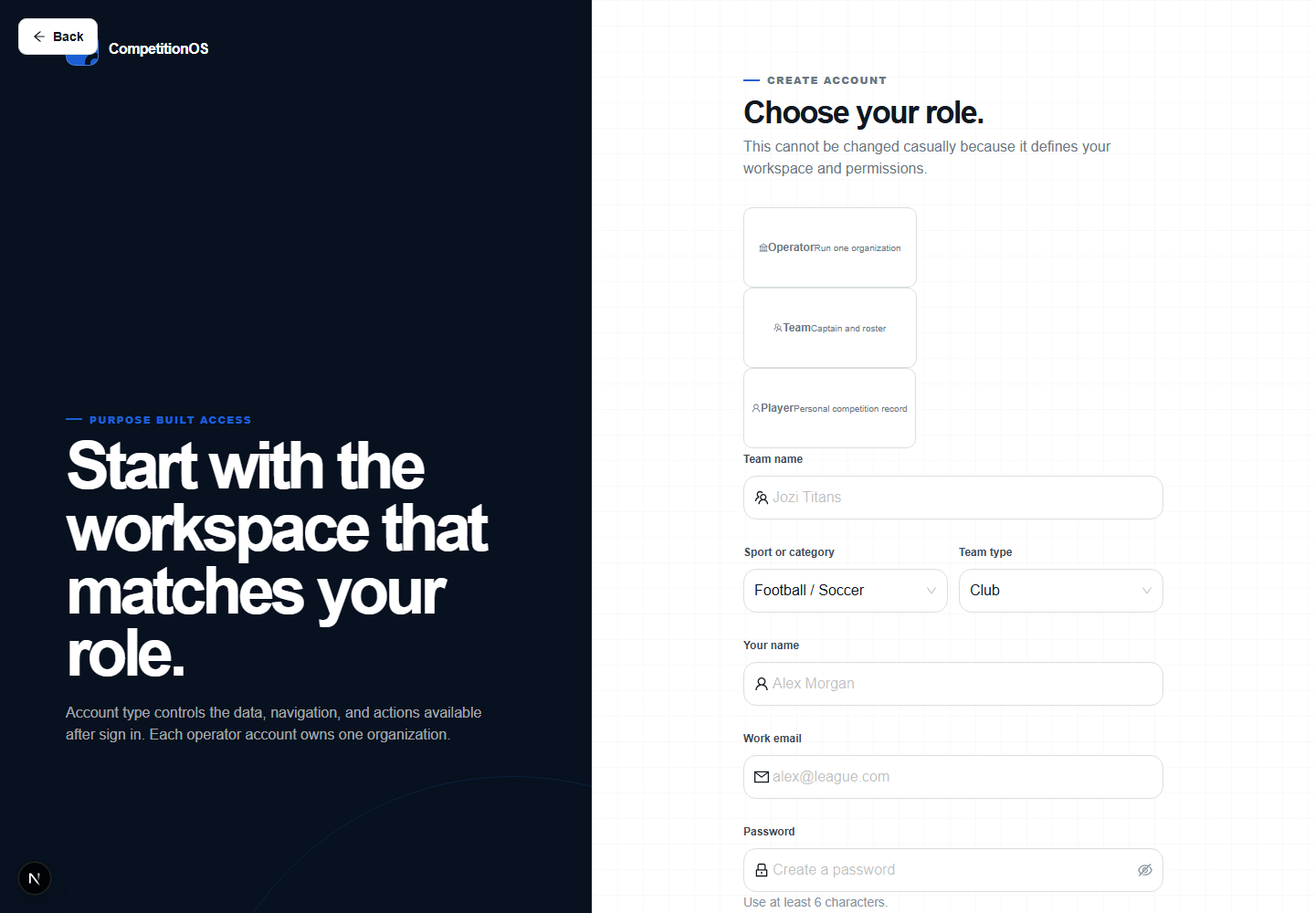
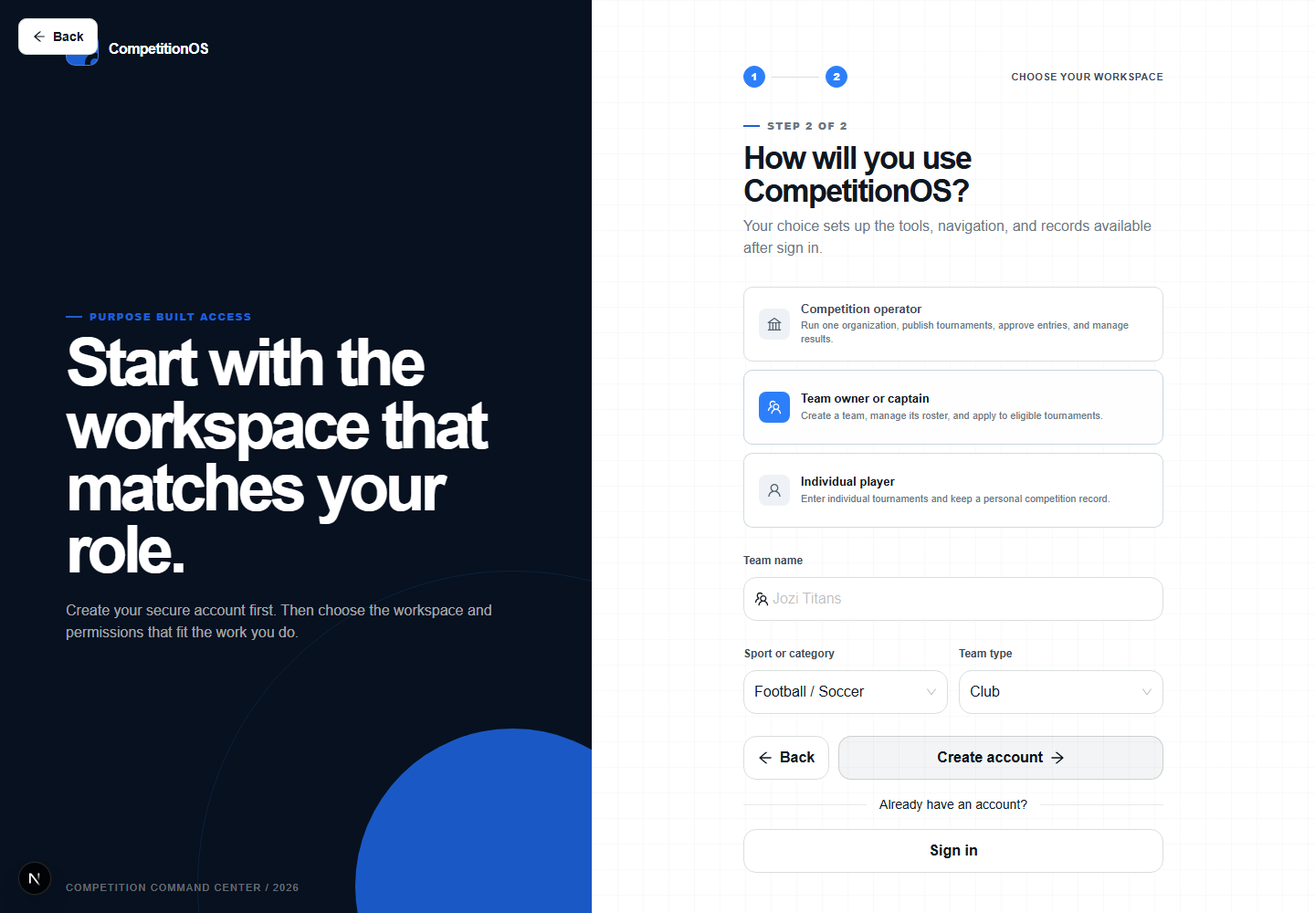
fix: rebuild role onboarding flow

diff --git a/src/app/register/page.tsx b/src/app/register/page.tsx
@@ -1,56 +1,109 @@
 "use client";
 
-import { useState } from "react";
+import { useEffect, useState } from "react";
 import { useRouter } from "next/navigation";
-import { Button, Divider, Form, Input, Radio, Select, message } from "antd";
-import { ArrowRightOutlined, BankOutlined, LockOutlined, MailOutlined, TeamOutlined, UserOutlined } from "@ant-design/icons";
+import { Button, Divider, Form, Input, Select, message } from "antd";
+import { ArrowLeftOutlined, ArrowRightOutlined, BankOutlined, LockOutlined, MailOutlined, TeamOutlined, UserOutlined } from "@ant-design/icons";
 import { AuthShell } from "@/components/common/auth-shell";
 import { SPORT_CATEGORIES, TEAM_TYPES } from "@/domain/categories";
 
 type AccountType = "operator" | "team" | "player";
+type RegistrationValues = { email: string; password: string; displayName: string; organizationName?: string; teamName?: string; category?: string; teamType?: string };
+
+const REDIRECT_KEY = "competitionos_auth_redirect";
+
+function safeInviteRedirect(value: string | null) {
+  return value?.startsWith("/invite/") && !value.startsWith("//") ? value : null;
+}
 
 export default function RegisterPage() {
   const router = useRouter();
+  const [form] = Form.useForm<RegistrationValues>();
   const [loading, setLoading] = useState(false);
-  const [accountType, setAccountType] = useState<AccountType>("operator");
+  const [step, setStep] = useState<1 | 2>(1);
+  const [accountType, setAccountType] = useState<AccountType | null>(null);
+  const [inviteRedirect, setInviteRedirect] = useState<string | null>(null);
 
-  const onFinish = async (values: { email: string; password: string; displayName: string; organizationName?: string; teamName?: string; category?: string; teamType?: string }) => {
+  useEffect(() => {
+    const queryRedirect = safeInviteRedirect(new URLSearchParams(window.location.search).get("redirect"));
+    const storedRedirect = safeInviteRedirect(sessionStorage.getItem(REDIRECT_KEY));
+    const redirect = queryRedirect ?? storedRedirect;
+    if (redirect) {
+      sessionStorage.setItem(REDIRECT_KEY, redirect);
+      setInviteRedirect(redirect);
+    }
+  }, []);
+
+  const createAccount = async (values: RegistrationValues, selectedType: AccountType) => {
     setLoading(true);
     try {
-      const res = await fetch("/api/auth/register", { method: "POST", headers: { "Content-Type": "application/json" }, body: JSON.stringify({ ...values, accountType }) });
+      const res = await fetch("/api/auth/register", { method: "POST", headers: { "Content-Type": "application/json" }, body: JSON.stringify({ ...values, accountType: selectedType }) });
       const json = await res.json();
       if (!res.ok) throw new Error(json.error ?? "Registration failed");
-      message.success(accountType === "operator" ? "Organization and operator account created." : accountType === "team" ? "Team workspace created." : "Player account created.");
-      router.push("/login");
+      message.success(inviteRedirect ? "Account created. Sign in to accept your invitation." : selectedType === "operator" ? "Organization and operator account created." : selectedType === "team" ? "Team workspace created." : "Player account created.");
+      router.push(inviteRedirect ? `/login?redirect=${encodeURIComponent(inviteRedirect)}` : "/login");
     } catch (err: unknown) {
       message.error(err instanceof Error ? err.message : "Registration failed");
     } finally { setLoading(false); }
   };
 
+  const onFinish = async (values: RegistrationValues) => {
+    if (step === 1 && !inviteRedirect) {
+      setStep(2);
+      return;
+    }
+    const selectedType = inviteRedirect ? "player" : accountType;
+    if (!selectedType) {
+      message.error("Choose the workspace that matches your role");
+      return;
+    }
+    await createAccount(values, selectedType);
+  };
+
   return (
-    <AuthShell eyebrow="Purpose built access" title="Start with the workspace that matches your role." description="Account type controls the data, navigation, and actions available after sign in. Each operator account owns one organization.">
-      <div className="auth-card__heading"><span className="eyebrow">Create account</span><h1>Choose your role.</h1><p>This cannot be changed casually because it defines your workspace and permissions.</p></div>
-      <Form layout="vertical" onFinish={onFinish} requiredMark={false}>
-        <Radio.Group className="account-type-picker" value={accountType} onChange={(event) => setAccountType(event.target.value)}>
-          <Radio.Button value="operator"><BankOutlined /><strong>Operator</strong><span>Run one organization</span></Radio.Button>
-          <Radio.Button value="team"><TeamOutlined /><strong>Team</strong><span>Captain and roster</span></Radio.Button>
-          <Radio.Button value="player"><UserOutlined /><strong>Player</strong><span>Personal competition record</span></Radio.Button>
-        </Radio.Group>
-        {accountType === "operator" && <Form.Item label="Company or organization name" name="organizationName" rules={[{ required: true, message: "Enter your organization name" }]}><Input prefix={<BankOutlined />} placeholder="Premier League Operations" size="large" autoComplete="organization" /></Form.Item>}
-        {accountType === "team" && <>
-          <Form.Item label="Team name" name="teamName" rules={[{ required: true, message: "Enter your team name" }]}><Input prefix={<TeamOutlined />} placeholder="Jozi Titans" size="large" /></Form.Item>
-          <div className="auth-field-pair">
-            <Form.Item label="Sport or category" name="category" initialValue="football" rules={[{ required: true }]}><Select size="large" options={[...SPORT_CATEGORIES]} /></Form.Item>
-            <Form.Item label="Team type" name="teamType" initialValue="club" rules={[{ required: true }]}><Select size="large" options={[...TEAM_TYPES]} /></Form.Item>
+    <AuthShell eyebrow="Purpose built access" title="Start with the workspace that matches your role." description="Create your secure account first. Then choose the workspace and permissions that fit the work you do.">
+      <div className="onboarding-progress" aria-label={`Account setup, step ${step} of 2`}>
+        <span className="is-active">1</span><i /><span className={step === 2 ? "is-active" : ""}>2</span>
+        <strong>{step === 1 ? "Account details" : "Choose your workspace"}</strong>
+      </div>
+      <div className="auth-card__heading">
+        <span className="eyebrow">{inviteRedirect ? "Invitation access" : `Step ${step} of 2`}</span>
+        <h1>{step === 1 ? "Create your account." : "How will you use CompetitionOS?"}</h1>
+        <p>{step === 1 ? (inviteRedirect ? "Your invitation will connect this account to the right competition or team." : "Use your real details so records and invitations reach the right person.") : "Your choice sets up the tools, navigation, and records available after sign in."}</p>
+      </div>
+      <Form form={form} layout="vertical" onFinish={onFinish} requiredMark={false} preserve>
+        {step === 1 && <>
+          <Form.Item label="Your name" name="displayName" rules={[{ required: true, message: "Enter your name" }]}><Input prefix={<UserOutlined />} placeholder="Alex Morgan" size="large" autoComplete="name" /></Form.Item>
+          <Form.Item label="Email address" name="email" rules={[{ required: true, type: "email", message: "Enter a valid email address" }]}><Input prefix={<MailOutlined />} placeholder="alex@league.com" size="large" autoComplete="email" /></Form.Item>
+          <Form.Item label="Password" name="password" rules={[{ required: true, min: 6, message: "Use at least 6 characters" }]} extra="Use at least 6 characters."><Input.Password prefix={<LockOutlined />} placeholder="Create a password" size="large" autoComplete="new-password" /></Form.Item>
+          <Button type="primary" htmlType="submit" block loading={loading} size="large">{inviteRedirect ? "Create account and continue" : "Continue"} <ArrowRightOutlined /></Button>
+        </>}
+
+        {step === 2 && <>
+          <div className="account-type-picker" role="radiogroup" aria-label="Workspace type">
+            <button type="button" role="radio" aria-checked={accountType === "operator"} className={accountType === "operator" ? "is-selected" : ""} onClick={() => setAccountType("operator")}><BankOutlined /><span className="account-type-copy"><strong>Competition operator</strong><small>Run one organization, publish tournaments, approve entries, and manage results.</small></span></button>
+            <button type="button" role="radio" aria-checked={accountType === "team"} className={accountType === "team" ? "is-selected" : ""} onClick={() => setAccountType("team")}><TeamOutlined /><span className="account-type-copy"><strong>Team owner or captain</strong><small>Create a team, manage its roster, and apply to eligible tournaments.</small></span></button>
+            <button type="button" role="radio" aria-checked={accountType === "player"} className={accountType === "player" ? "is-selected" : ""} onClick={() => setAccountType("player")}><UserOutlined /><span className="account-type-copy"><strong>Individual player</strong><small>Enter individual tournaments and keep a personal competition record.</small></span></button>
+          </div>
+
+          {accountType === "operator" && <Form.Item label="Company or organization name" name="organizationName" rules={[{ required: true, message: "Enter your organization name" }]}><Input prefix={<BankOutlined />} placeholder="Premier League Operations" size="large" autoComplete="organization" /></Form.Item>}
+          {accountType === "team" && <>
+            <Form.Item label="Team name" name="teamName" rules={[{ required: true, message: "Enter your team name" }]}><Input prefix={<TeamOutlined />} placeholder="Jozi Titans" size="large" /></Form.Item>
+            <div className="auth-field-pair">
+              <Form.Item label="Sport or category" name="category" initialValue="football" rules={[{ required: true }]}><Select size="large" options={[...SPORT_CATEGORIES]} /></Form.Item>
+              <Form.Item label="Team type" name="teamType" initialValue="club" rules={[{ required: true }]}><Select size="large" options={[...TEAM_TYPES]} /></Form.Item>
+            </div>
+          </>}
+          {accountType === "player" && <div className="role-confirmation"><UserOutlined /><span><strong>Your player profile</strong><small>Your tournament entries, team memberships, fixtures, and results stay connected to this account.</small></span></div>}
+
+          <div className="onboarding-actions">
+            <Button size="large" icon={<ArrowLeftOutlined />} onClick={() => setStep(1)}>Back</Button>
+            <Button type="primary" htmlType="submit" loading={loading} size="large" disabled={!accountType}>Create account <ArrowRightOutlined /></Button>
           </div>
         </>}
-        <Form.Item label="Your name" name="displayName" rules={[{ required: true, message: "Enter your name" }]}><Input prefix={<UserOutlined />} placeholder="Alex Morgan" size="large" autoComplete="name" /></Form.Item>
-        <Form.Item label="Work email" name="email" rules={[{ required: true, type: "email", message: "Enter a valid email address" }]}><Input prefix={<MailOutlined />} placeholder="alex@league.com" size="large" autoComplete="email" /></Form.Item>
-        <Form.Item label="Password" name="password" rules={[{ required: true, min: 6, message: "Use at least 6 characters" }]} extra="Use at least 6 characters."><Input.Password prefix={<LockOutlined />} placeholder="Create a password" size="large" autoComplete="new-password" /></Form.Item>
-        <Button type="primary" htmlType="submit" block loading={loading} size="large">Create {accountType} account <ArrowRightOutlined /></Button>
       </Form>
       <Divider plain>Already have an account?</Divider>
-      <Button block size="large" onClick={() => router.push("/login")}>Sign in</Button>
+      <Button block size="large" onClick={() => router.push(inviteRedirect ? `/login?redirect=${encodeURIComponent(inviteRedirect)}` : "/login")}>Sign in</Button>
     </AuthShell>
   );
 }

diff --git a/src/app/how-to/page.tsx b/src/app/how-to/page.tsx
@@ -39,7 +39,7 @@ export default function HowToPage() {
 
         <section id="accounts"><div className={styles.label}>01 / Account model</div><h2>Choose the correct account at sign up.</h2><p>Every login has one permanent operating context. This keeps participant data separate from organizer controls and makes every action auditable.</p><div className={styles.roles}><div><strong>Operator</strong><p>Creates one organization during onboarding and manages its competitions, approvals, officials, scoring, and publication.</p></div><div><strong>Team</strong><p>Creates one named team during onboarding. The captain manages its identity, roster, invitations, and tournament applications.</p></div><div><strong>Player</strong><p>Registers as an individual, enters eligible individual competitions, and follows personal fixtures and performance.</p></div></div></section>
 
-        <section id="operator"><div className={styles.label}>02 / Operator</div><h2>Set up your organization.</h2><Steps items={[{ title: "Select Operator at sign up", body: "Enter the company, federation, league, school, or tournament organization name. CompetitionOS creates the organization and makes you its owner." }, { title: "Open the organization workspace", body: "After sign in you land at /o/your-organization. This is the private command center for the organization created with that account." }, { title: "Invite operational staff", body: "Use People to invite admins, moderators, referees, and members. Give each person the smallest role needed for their work." }, { title: "Complete organization settings", body: "Add the identity and operational details that should appear across public competition coverage." }]} /></section>
+        <section id="operator"><div className={styles.label}>02 / Operator</div><h2>Set up your organization.</h2><Steps items={[{ title: "Create your account, then choose Operator", body: "Enter your personal account details first. On step two, choose Competition operator and enter the company, federation, league, school, or tournament organization name. CompetitionOS creates that organization and makes you its owner." }, { title: "Open the organization workspace", body: "After sign in you land at /o/your-organization. This is the private command center for the organization created with that account." }, { title: "Invite operational staff", body: "Use People to invite admins, moderators, referees, and members. Give each person the smallest role needed for their work." }, { title: "Complete organization settings", body: "Add the identity and operational details that should appear across public competition coverage." }]} /></section>
 
         <section id="competition"><div className={styles.label}>03 / Competition setup</div><h2>Create a competition that entrants understand.</h2><Steps items={[{ title: "Open Competitions and choose New competition", body: "Name the season, cup, circuit, qualifier, or tournament clearly." }, { title: "Write the required description", body: "Explain who the competition is for, the objective, dates, region, and any qualification context. The description is required before creation." }, { title: "Choose the category", body: "Select football, esports, basketball, or the relevant discipline. Team alerts and eligibility use this category." }, { title: "Choose one entry type", body: "A competition accepts either team entries or individual player entries. This decides who can apply and prevents mixed registration data." }, { title: "Set eligibility", body: "Add the eligible region and, for team events, minimum and maximum roster size. These checks run before an application is accepted." }, { title: "Save as draft", body: "Build events, rules, and dates privately. Publish only after the launch checklist is complete." }]} /></section>
 
@@ -47,9 +47,9 @@ export default function HowToPage() {
 
         <section id="registrations"><div className={styles.label}>05 / Registration control</div><h2>Review every entrant before they enter an event.</h2><Steps items={[{ title: "Publish the competition", body: "Eligible player and team accounts see it in their tournament directory, based on entry type and category." }, { title: "Watch the pending queue", body: "Open Registrations in the operator workspace. Each application shows the entrant, category, roster size, note, and compatible events." }, { title: "Check eligibility", body: "Verify the applicant identity, roster size, regional rule, and any external qualification requirements." }, { title: "Approve or reject", body: "Approval creates the entrant in compatible events. Rejection keeps the decision and review note in the registration record." }, { title: "Generate fixtures after approval", body: "Wait until the approved field is final, then seed and initialize the event structure." }]} /></section>
 
-        <section id="team"><div className={styles.label}>06 / Team captain</div><h2>Build and maintain the official roster.</h2><Steps items={[{ title: "Select Team at sign up", body: "Enter the official team name, category, and team type. The team is created with your account as captain." }, { title: "Update team identity", body: "Use Team and roster to maintain the name, description, sport category, and organization type." }, { title: "Invite players", body: "Send an email invite or copy a share link into WhatsApp or another team channel. A signed in player accepts the link to join." }, { title: "Check roster eligibility", body: "Before applying, make sure accepted players satisfy the tournament minimum and maximum roster rules." }, { title: "Apply to tournaments", body: "Open Tournaments, select an eligible published competition, add an application note, and submit for operator approval." }]} /></section>
+        <section id="team"><div className={styles.label}>06 / Team captain</div><h2>Build and maintain the official roster.</h2><Steps items={[{ title: "Create your account, then choose Team", body: "On step two, choose Team owner or captain and enter the official team name, category, and team type. The team is created with your account as captain." }, { title: "Update team identity", body: "Use Team and roster to maintain the name, description, sport category, and organization type." }, { title: "Invite players", body: "Send an email invite or copy a share link into WhatsApp or another team channel. A signed in player accepts the link to join." }, { title: "Check roster eligibility", body: "Before applying, make sure accepted players satisfy the tournament minimum and maximum roster rules." }, { title: "Apply to tournaments", body: "Open Tournaments, select an eligible published competition, add an application note, and submit for operator approval." }]} /></section>
 
-        <section id="player"><div className={styles.label}>07 / Player</div><h2>Register and follow your own record.</h2><Steps items={[{ title: "Select Player at sign up", body: "Create a personal account with your real competition identity." }, { title: "Join a team when invited", body: "Open the captain's email or share link, sign in with the intended account, and accept the roster invitation." }, { title: "Enter individual tournaments", body: "The tournament directory shows published individual competitions. Submit the application and wait for operator approval." }, { title: "Follow events and performance", body: "My events contains active competition entries. Performance shows results, win rate, scoring totals, and recent matches linked to the account." }]} /></section>
+        <section id="player"><div className={styles.label}>07 / Player</div><h2>Register and follow your own record.</h2><Steps items={[{ title: "Create your player profile", body: "Create an account with your real competition identity, then choose Individual player. If you arrived through an invitation, CompetitionOS keeps that destination and skips the role question." }, { title: "Join a team when invited", body: "Open the captain's email or share link, sign in with the intended account, and accept the roster invitation." }, { title: "Enter individual tournaments", body: "The tournament directory shows published individual competitions. Submit the application and wait for operator approval." }, { title: "Follow events and performance", body: "My events contains active competition entries. Performance shows results, win rate, scoring totals, and recent matches linked to the account." }]} /></section>
 
         <section id="scoring"><div className={styles.label}>08 / Match operations</div><h2>Score a match and advance it safely.</h2><Steps items={[{ title: "Open the event", body: "From the competition, open the relevant event and locate the scheduled fixture." }, { title: "Verify both entrants", body: "Confirm the fixture, round, home or slot position, and scheduled time before starting live control." }, { title: "Record the final score", body: "Enter each side's score and complete the match. Use the configured draw, extra time, tie break, or series rules." }, { title: "Confirm the winner", body: "Review the result before advancement. Completion updates tables, statistics, and the declared progression target." }, { title: "Correct through audited controls", body: "If a result changes, use the score controls so the change remains attributable and dependent standings can be recalculated." }]} /></section>
 

diff --git a/src/app/globals.css b/src/app/globals.css
@@ -355,29 +355,50 @@ a {
 .account-type-picker {
   display: grid;
   margin-bottom: 24px;
-  grid-template-columns: repeat(3, minmax(0, 1fr));
-  gap: 8px;
+  grid-template-columns: 1fr;
+  gap: 9px;
 }
-.account-type-picker .ant-radio-button-wrapper {
-  display: flex;
-  height: 88px;
-  padding: 12px 8px;
+.account-type-picker > button {
+  display: grid;
+  width: 100%;
+  min-height: 82px;
+  padding: 14px 16px;
   align-items: center;
-  justify-content: center;
-  flex-direction: column;
-  gap: 3px;
-  border: 1px solid var(--line) !important;
-  border-radius: 10px !important;
-  text-align: center;
+  grid-template-columns: 34px minmax(0, 1fr);
+  gap: 12px;
+  border: 1px solid var(--line);
+  border-radius: 10px;
+  background: #fff;
+  color: var(--ink-700);
+  font: inherit;
+  text-align: left;
+  cursor: pointer;
+  box-shadow: none;
+  transition: border-color 160ms, background 160ms, box-shadow 160ms;
 }
-.account-type-picker .ant-radio-button-wrapper::before { display: none; }
-.account-type-picker strong { font-size: 12px; }
-.account-type-picker span { color: var(--ink-500); font-size: 10px; line-height: 1.25; }
+.account-type-picker > button:hover { border-color: rgba(45,127,249,.55); color: var(--ink-950); }
+.account-type-picker > button:focus-visible { outline: 3px solid rgba(45,127,249,.2); outline-offset: 2px; }
+.account-type-picker > button.is-selected { border-color: #2d7ff9; background: #f2f7ff; color: var(--ink-950); box-shadow: 0 0 0 3px rgba(45,127,249,.1); }
+.account-type-picker > button > .anticon { display: grid; width: 34px; height: 34px; place-items: center; border-radius: 8px; background: #eef2f6; color: #536170; font-size: 16px; }
+.account-type-picker > button.is-selected > .anticon { background: #2d7ff9; color: #fff; }
+.account-type-copy { display: flex; min-width: 0; flex-direction: column; gap: 3px; }
+.account-type-copy strong { color: inherit; font-size: 13px; line-height: 1.2; }
+.account-type-copy small { color: var(--ink-500); font-size: 11px; line-height: 1.35; white-space: normal; }
+.onboarding-progress { display: grid; margin-bottom: 26px; grid-template-columns: 24px minmax(22px, 52px) 24px 1fr; align-items: center; gap: 7px; color: var(--ink-500); }
+.onboarding-progress span { display: grid; width: 24px; height: 24px; place-items: center; border: 1px solid var(--line); border-radius: 50%; background: #fff; font-size: 11px; font-weight: 800; }
+.onboarding-progress span.is-active { border-color: #2d7ff9; background: #2d7ff9; color: #fff; }
+.onboarding-progress i { height: 1px; background: var(--line); }
+.onboarding-progress strong { justify-self: end; color: var(--ink-700); font-size: 11px; letter-spacing: .04em; text-transform: uppercase; }
+.onboarding-actions { display: grid; grid-template-columns: auto 1fr; gap: 10px; }
+.role-confirmation { display: grid; margin-bottom: 24px; padding: 15px 16px; grid-template-columns: 28px 1fr; gap: 10px; border: 1px solid var(--line); border-radius: 10px; background: #f7f9fc; color: var(--ink-700); }
+.role-confirmation > .anticon { margin-top: 2px; color: #1c5fd4; font-size: 18px; }
+.role-confirmation span { display: flex; flex-direction: column; gap: 3px; }
+.role-confirmation small { color: var(--ink-500); line-height: 1.45; }
 .auth-field-pair { display: grid; grid-template-columns: 1fr 1fr; gap: 12px; }
 @media (max-width: 560px) {
-  .account-type-picker { grid-template-columns: 1fr; }
-  .account-type-picker .ant-radio-button-wrapper { height: 64px; align-items: flex-start; padding-inline: 14px; }
+  .account-type-picker > button { min-height: 78px; padding: 12px; }
   .auth-field-pair { grid-template-columns: 1fr; gap: 0; }
+  .onboarding-progress strong { display: none; }
 }
 .auth-card__heading {
   margin-bottom: 30px;

diff --git a/src/app/login/page.tsx b/src/app/login/page.tsx
@@ -1,6 +1,6 @@
 "use client";
 
-import { useState } from "react";
+import { useEffect, useState } from "react";
 import { useRouter } from "next/navigation";
 import { Button, Divider, Form, Input, message } from "antd";
 import { ArrowRightOutlined, LockOutlined, MailOutlined } from "@ant-design/icons";
@@ -10,6 +10,11 @@ export default function LoginPage() {
   const router = useRouter();
   const [loading, setLoading] = useState(false);
 
+  useEffect(() => {
+    const requested = new URLSearchParams(window.location.search).get("redirect");
+    if (requested?.startsWith("/invite/") && !requested.startsWith("//")) sessionStorage.setItem("competitionos_auth_redirect", requested);
+  }, []);
+
   const onFinish = async (values: { email: string; password: string }) => {
     setLoading(true);
     try {
@@ -18,7 +23,9 @@ export default function LoginPage() {
       if (!res.ok) throw new Error(json.error ?? "Could not sign in");
       message.success("Welcome back");
       const requested = new URLSearchParams(window.location.search).get("redirect");
-      router.push(requested?.startsWith("/") && !requested.startsWith("//") ? requested : (json.nextPath ?? "/app"));
+      const destination = requested?.startsWith("/") && !requested.startsWith("//") ? requested : (json.nextPath ?? "/app");
+      if (destination.startsWith("/invite/")) sessionStorage.removeItem("competitionos_auth_redirect");
+      router.push(destination);
       router.refresh();
     } catch (err: unknown) {
       message.error(err instanceof Error ? err.message : "Could not sign in");
@@ -35,7 +42,10 @@ export default function LoginPage() {
         <Button type="primary" htmlType="submit" block loading={loading} size="large">Sign in <ArrowRightOutlined /></Button>
       </Form>
       <Divider plain>New to CompetitionOS?</Divider>
-      <Button block size="large" onClick={() => router.push("/register")}>Create an account</Button>
+      <Button block size="large" onClick={() => {
+        const requested = new URLSearchParams(window.location.search).get("redirect");
+        router.push(requested?.startsWith("/invite/") && !requested.startsWith("//") ? `/register?redirect=${encodeURIComponent(requested)}` : "/register");
+      }}>Create an account</Button>
     </AuthShell>
   );
 }

diff --git a/tests/e2e/product.spec.ts b/tests/e2e/product.spec.ts
@@ -49,13 +49,29 @@ test.describe("public product story", () => {
   test("separates operator, team, and player onboarding", async ({ page }) => {
     await mockApp(page, false);
     await page.goto("/register");
+    await expect(page.getByRole("heading", { name: "Create your account." })).toBeVisible();
+    await expect(page.getByRole("radio")).toHaveCount(0);
+    await page.getByLabel("Your name").fill("Alex Morgan");
+    await page.getByLabel("Email address").fill("alex@league.com");
+    await page.getByLabel("Password").fill("competition2026");
+    await page.getByRole("button", { name: /Continue/ }).click();
+    await expect(page.getByRole("heading", { name: "How will you use CompetitionOS?" })).toBeVisible();
+    await page.getByRole("radio", { name: /Competition operator/ }).click();
     await expect(page.getByLabel("Company or organization name")).toBeVisible();
-    await page.getByText("Team", { exact: true }).click();
+    await page.getByRole("radio", { name: /Team owner or captain/ }).click();
     await expect(page.getByLabel("Team name")).toBeVisible();
     await expect(page.getByLabel("Sport or category")).toBeVisible();
-    await page.getByText("Player", { exact: true }).click();
+    await page.getByRole("radio", { name: /Individual player/ }).click();
     await expect(page.getByLabel("Team name")).toHaveCount(0);
     await expect(page.getByLabel("Company or organization name")).toHaveCount(0);
+  });
+
+  test("uses an invitation redirect instead of asking for a role", async ({ page }) => {
+    await mockApp(page, false);
+    await page.goto("/register?redirect=%2Finvite%2Fteam%2Fabc123");
+    await expect(page.getByText("Invitation access")).toBeVisible();
+    await expect(page.getByRole("radio")).toHaveCount(0);
+    await expect(page.getByRole("button", { name: /Create account and continue/ })).toBeVisible();
   });
 
   test("publishes complete task guides", async ({ page }) => {
